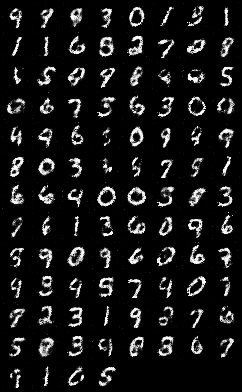
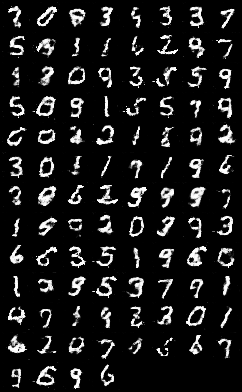
Makes aux generator the decoder.

diff --git a/modules_tied.py b/modules_tied.py
@@ -100,13 +100,10 @@ class VAE(nn.Module):
     def return_weights(self):
         return self.fc3.weight, self.fc4.weight
 
-    def forward(self, x,fc3_weight, fc4_weight):
-       self.fc3.weight = fc3_weight
-       self.fc4_weight = fc4_weight
-        
+    def forward(self, x):
        mu, logvar = self.encode_new(x.view(-1, 1,28,28))
        z = self.reparameterize(mu, logvar)
-       return self.decode(z), mu,logvar
+       return mu,logvar
         #return mu,logvar
 
 class Aux(nn.Module):
@@ -127,7 +124,7 @@ class Aux(nn.Module):
         if self.training:
           std = logvar.mul(0.5).exp_()
           eps = Variable(std.data.new(std.size()).normal_())
-          return eps.mul(std).add_(mu)
+          return eps
         else:
           return mu
 
@@ -138,11 +135,11 @@ class Aux(nn.Module):
         return self.fc3.weight, self.fc4.weight
 
     
-    def forward(self,mu,logvar,fc3_weight, fc4_weight):
-        self.fc3.weight = fc3_weight
-        self.fc4.weight = fc4_weight
+    def forward(self,z):
+        #self.fc3.weight = fc3_weight
+        #self.fc4.weight = fc4_weight
         
-        z = self.reparameterize(mu,logvar)
+        #z = self.reparameterize(mu,logvar)
         #other.fc3,other.fc4 = self.dec_params()
         #return self.decode(z).view(-1,28,28)
         return self.decode(z)
